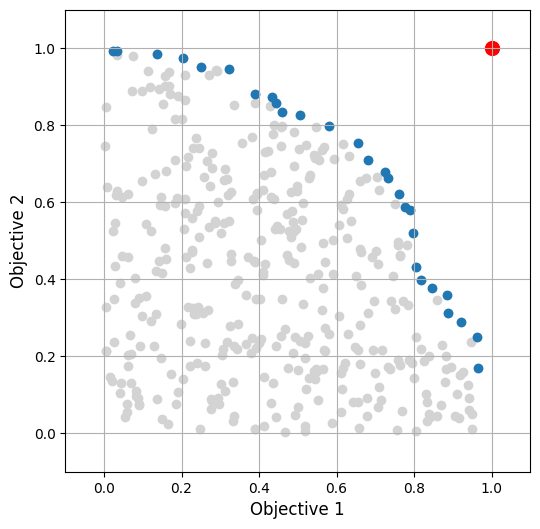
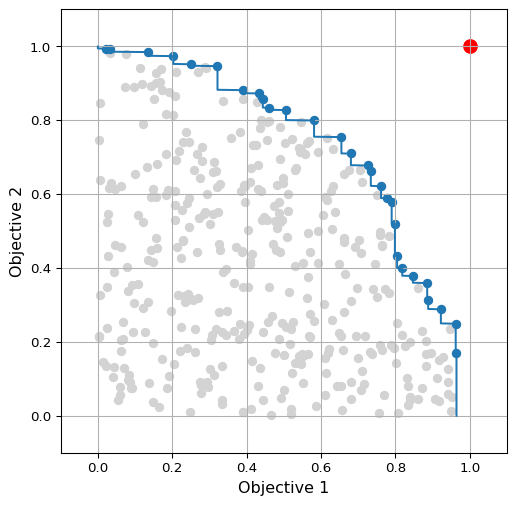
Update README

diff --git a/README.md b/README.md
@@ -54,7 +54,7 @@ ax.set_xlim([-0.1, 1.1])
 ax.set_ylim([-0.1, 1.1])
 ```
 
-![](README_files/figure-commonmark/cell-8-output-1.png)
+![](README_files/figure-commonmark/cell-6-output-1.png)
 
 ## Example 2 - interpolate Pareto front
 
@@ -82,7 +82,7 @@ ax.set_xlim([-0.1, 1.1])
 ax.set_ylim([-0.1, 1.1])
 ```
 
-![](README_files/figure-commonmark/cell-9-output-1.png)
+![](README_files/figure-commonmark/cell-7-output-1.png)
 
 ``` python
 # Interpolate first objective from Pareto front on the basis of second objective grid `o2dense`
@@ -104,7 +104,7 @@ ax.set_xlim([-0.1, 1.1])
 ax.set_ylim([-0.1, 1.1])
 ```
 
-![](README_files/figure-commonmark/cell-10-output-1.png)
+![](README_files/figure-commonmark/cell-8-output-1.png)
 
 ## Example 3 - find successive Pareto fronts
 
@@ -136,4 +136,13 @@ for i in range(0, 5):
 ax.legend()
 ```
 
-![](README_files/figure-commonmark/cell-11-output-1.png)
+![](README_files/figure-commonmark/cell-9-output-1.png)
+
+## Version info
+
+Examples prepared using the following software versions:
+
+- `python` version: 3.12.11
+- `numpy` version: 2.4.4
+- `matplotlib` version: 3.10.9
+- `pareto2d` version: 0.1.1
